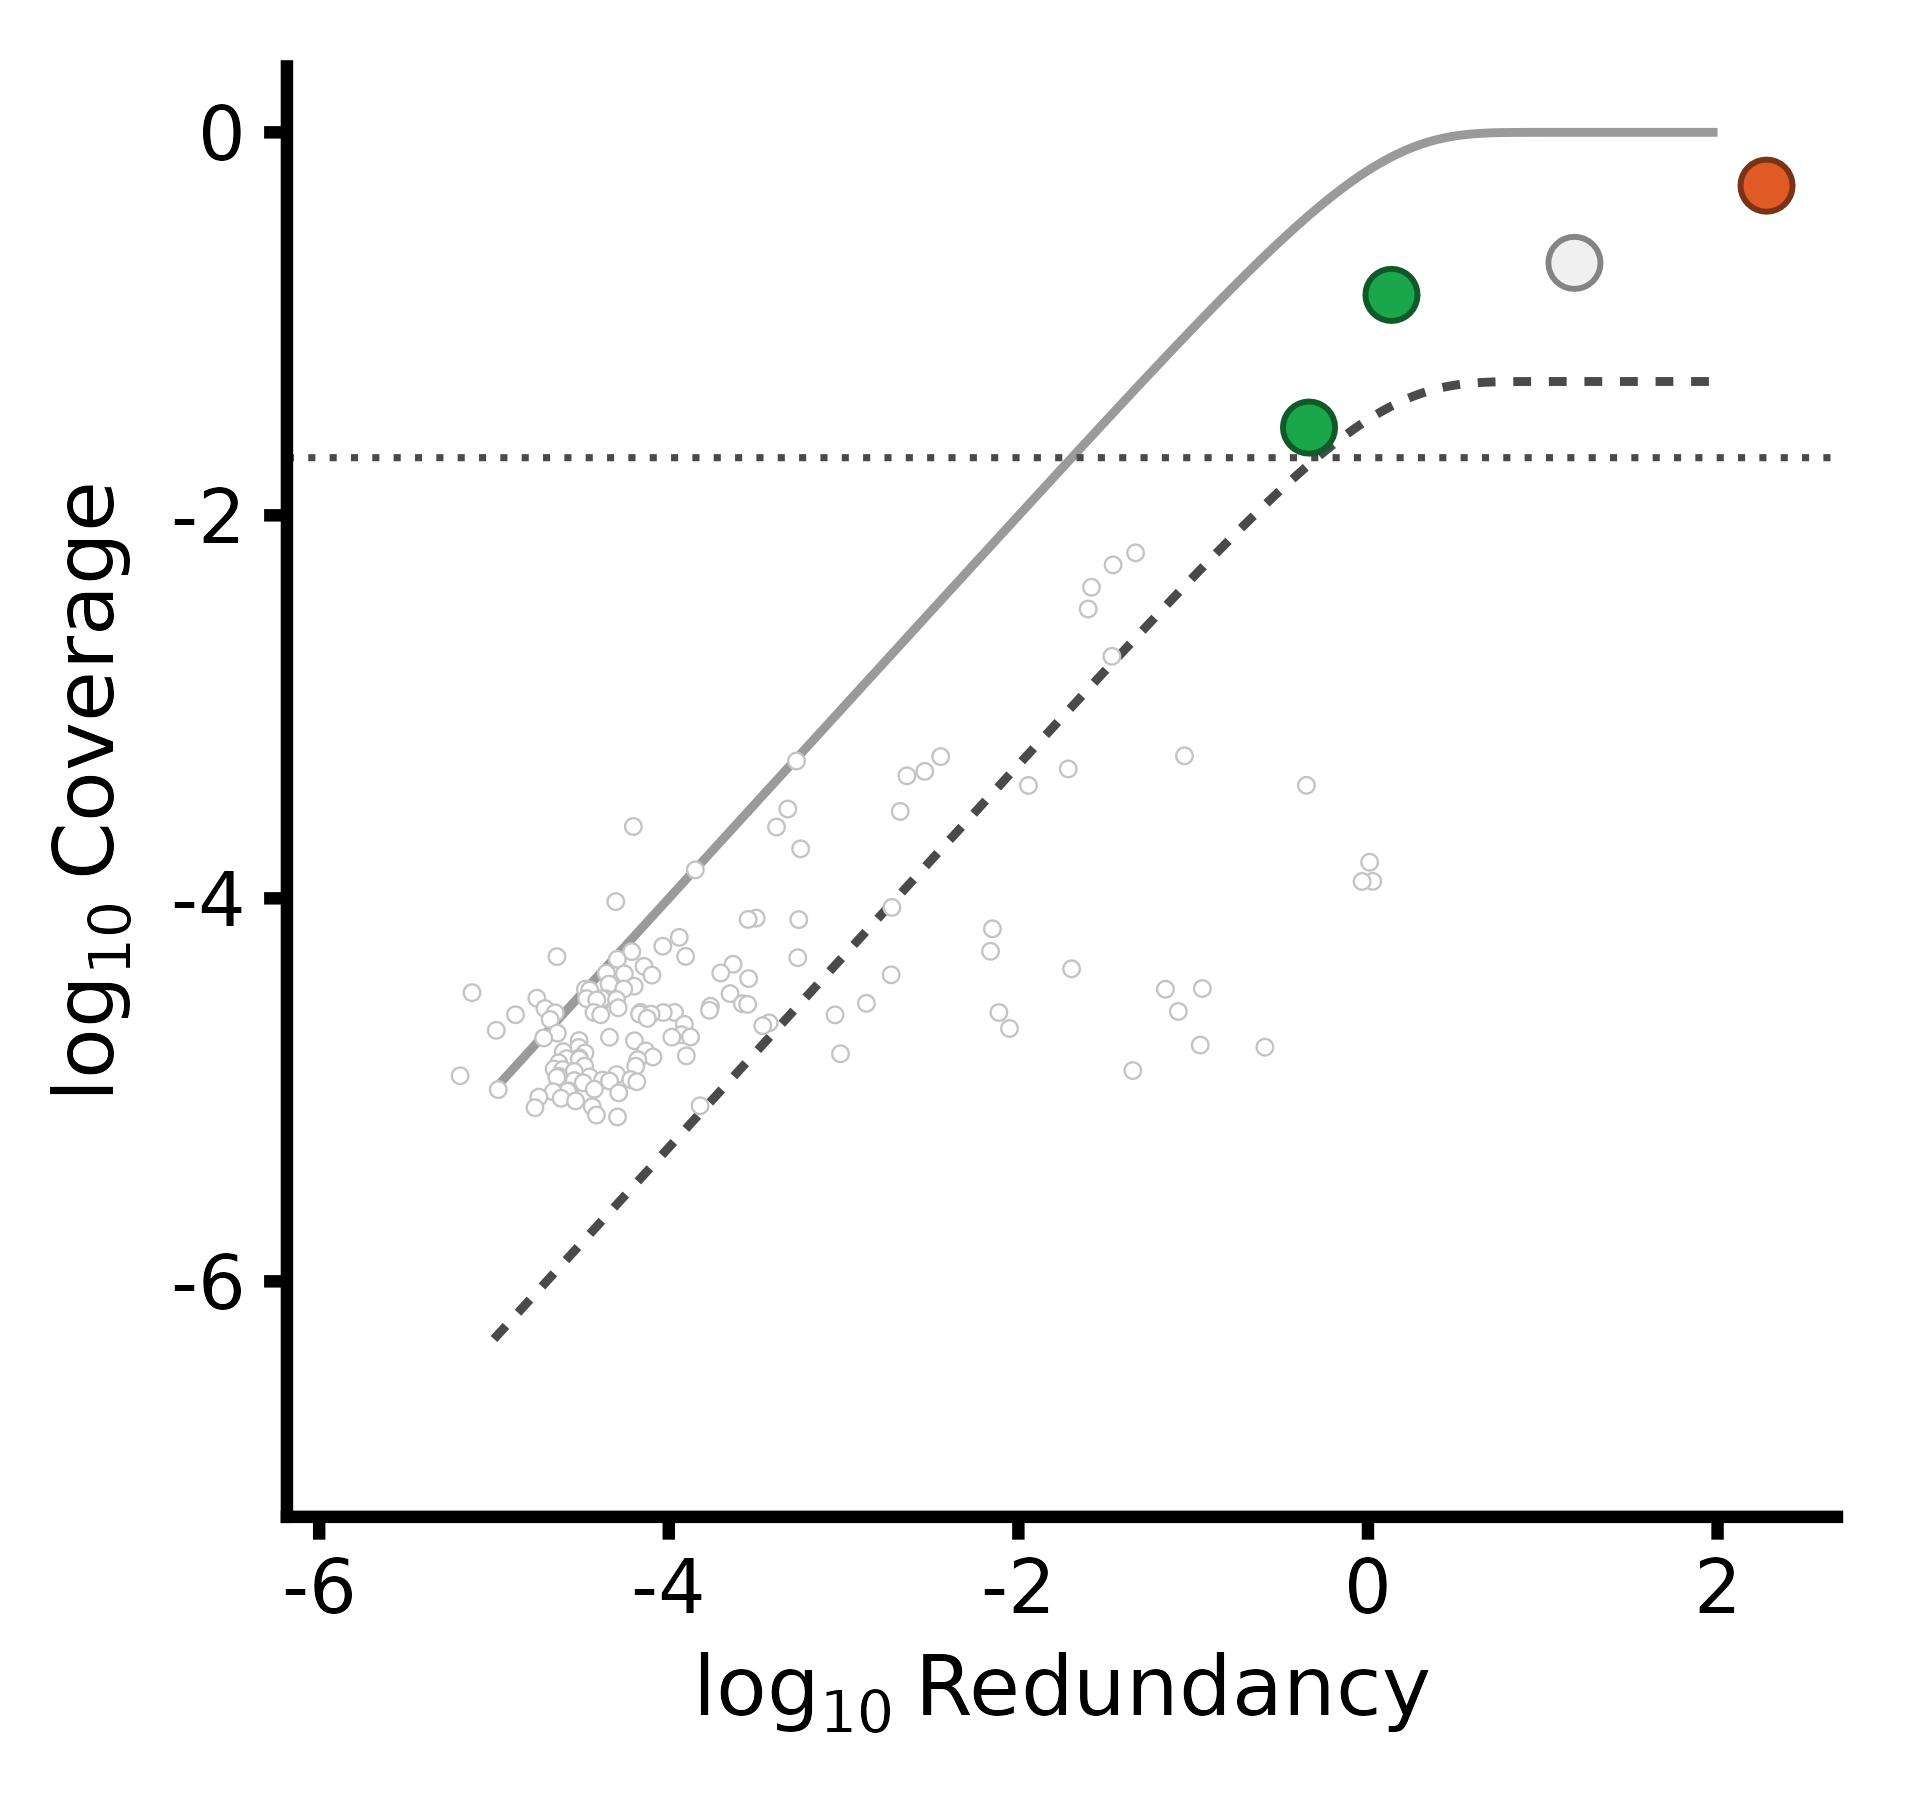
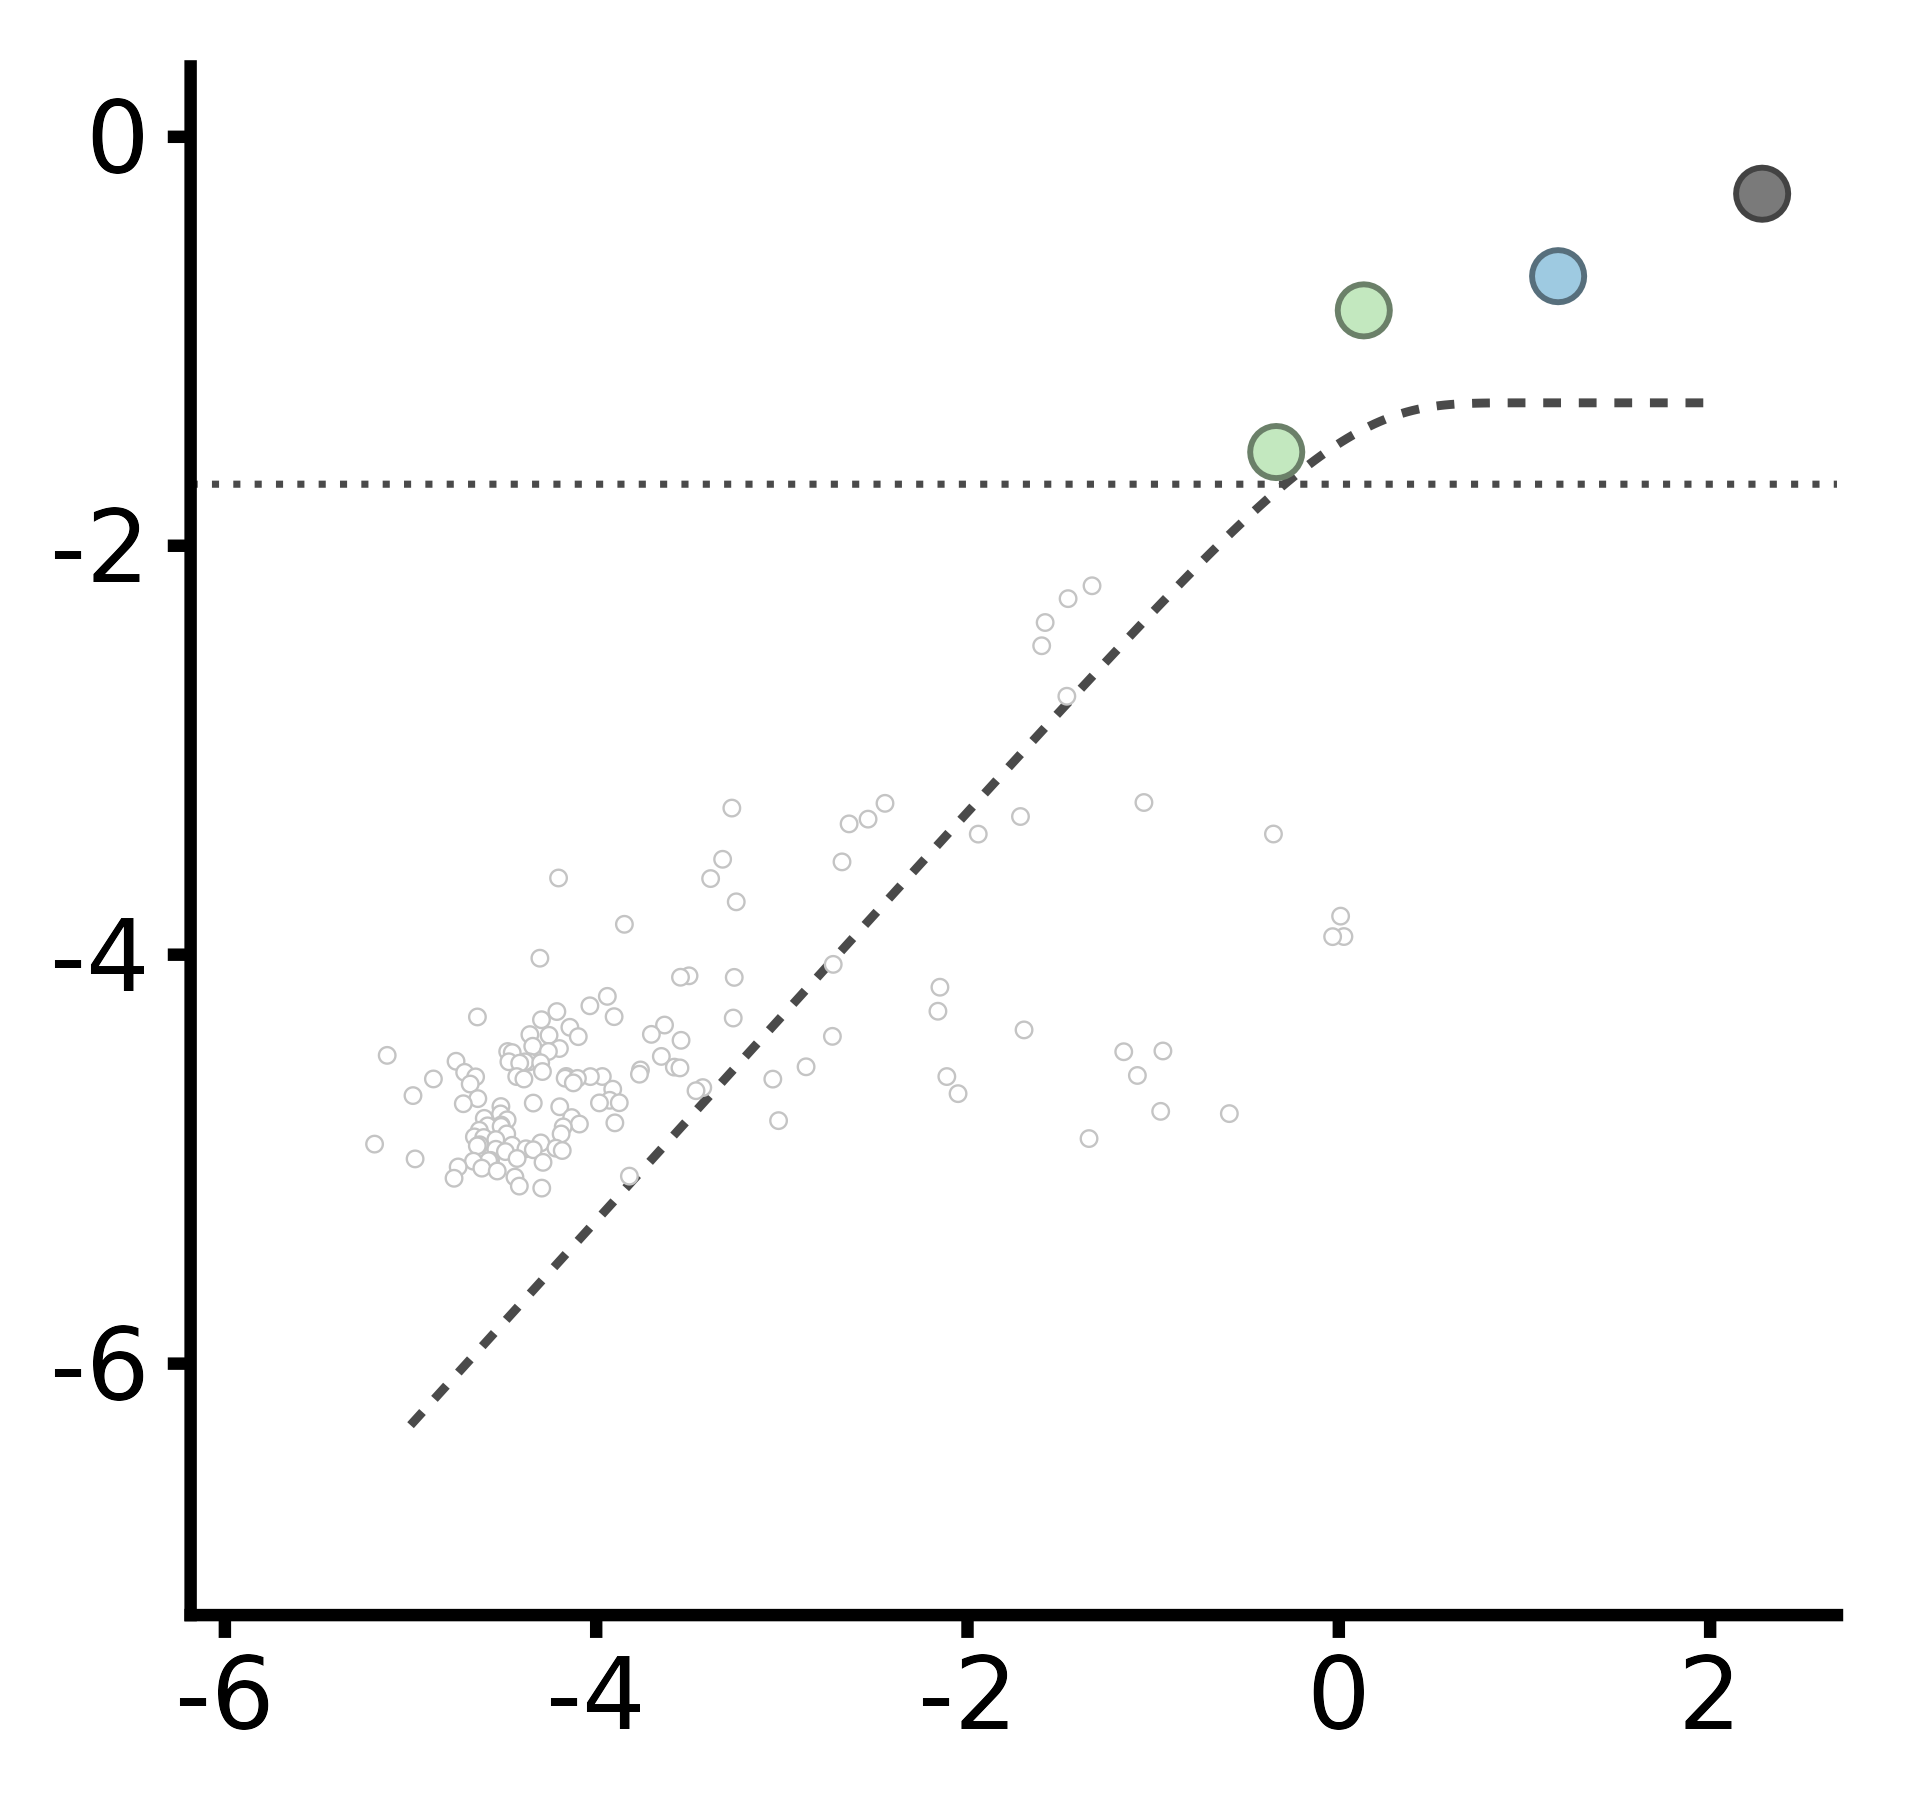
03_classify/runs: the legend states the whole scheme

diff --git a/release/03_classify/figures/runs/prep_runs.py b/release/03_classify/figures/runs/prep_runs.py
@@ -140,6 +140,19 @@ def main():
         w.writeheader()
         w.writerows(pts)
 
+    # THE FIVE CATEGORIES, written whether or not each occurs in these four runs. The
+    # legend states the SCHEME, which is shared with samples.png, and a reader comparing
+    # the two needs to see that "Wheat Resident" exists and simply has no point here: none
+    # of the residents called in these runs is one USDA records on wheat at species rank,
+    # which is itself the 02_reference finding that the genus tier carries the residents.
+    with open(HERE / "runs_cats.tsv", "w", newline="") as fh:
+        w = csv.writer(fh, delimiter="\t", lineterminator="\n")
+        w.writerow(["category", "fill", "edge", "n_called"])
+        called = [p for p in pts if p["call"] == "detected"]
+        for name, fill in CATS:
+            w.writerow([name, fill, darken(fill),
+                        sum(1 for p in called if p["category"] == name)])
+
     with open(HERE / "runs_floors.tsv", "w", newline="") as fh:
         w = csv.writer(fh, delimiter="\t", lineterminator="\n")
         w.writerow(["item", "value"])
